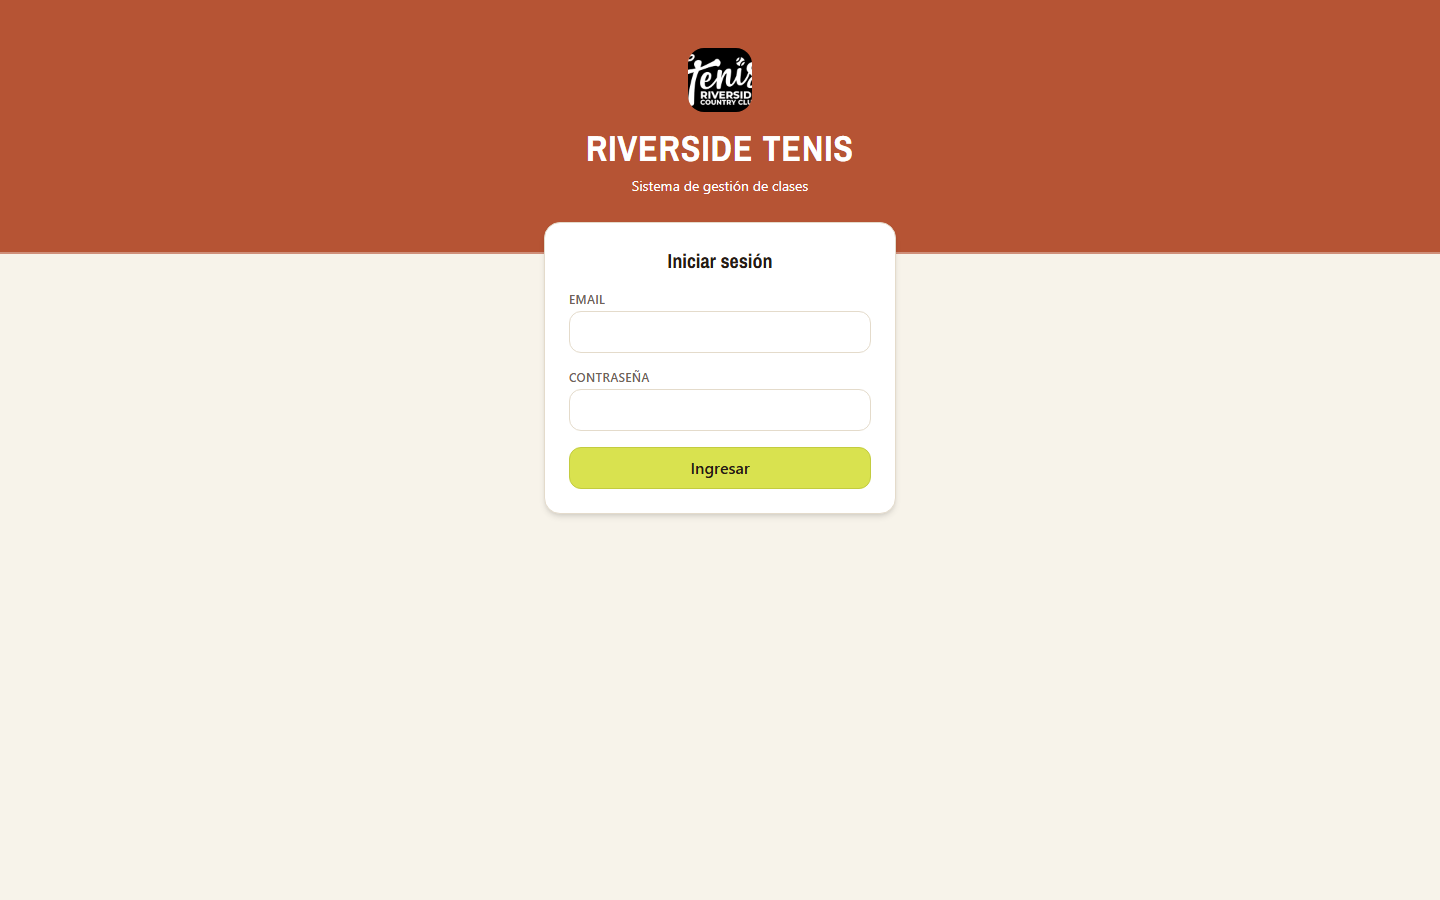
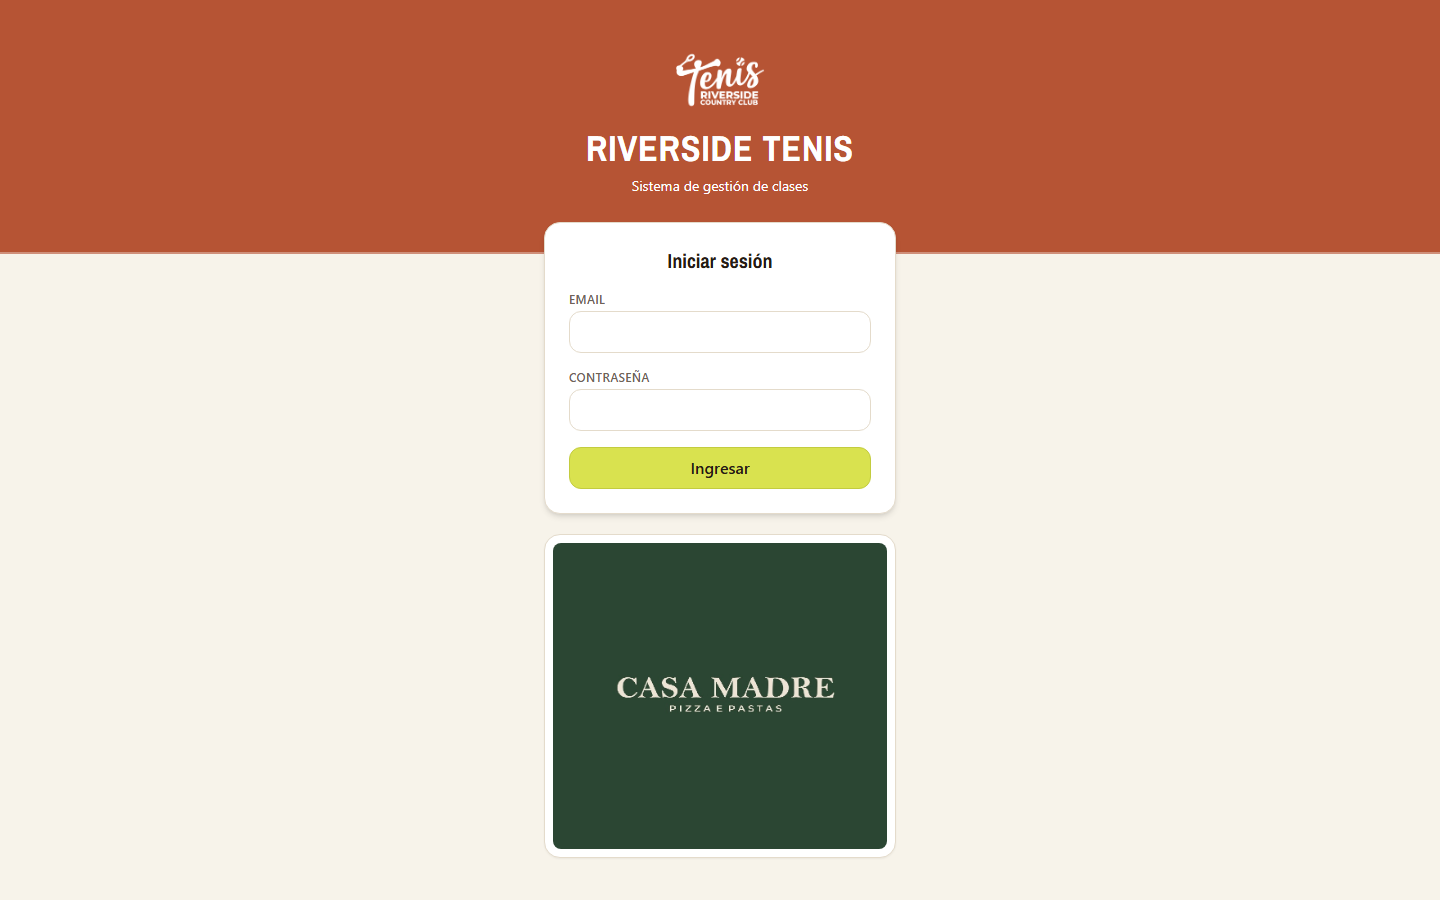
banners3

Changed region(s): [[0.375, 0.5911, 0.625, 0.9644], [0.4688, 0.0311, 0.5312, 0.1244]]

diff --git a/frontend/src/components/AdModal.tsx b/frontend/src/components/AdModal.tsx
@@ -5,38 +5,29 @@ import Image from 'next/image';
 import { ADS, ADS_SUBTITLE, ADS_TITLE } from '@/ads';
 import { Close } from '@/components/icons';
 
-const STORAGE_KEY = 'ads_seen_date';
+const PENDING_KEY = 'ads_pending';
 
-function todayKey(): string {
-  const d = new Date();
-  const mm = String(d.getMonth() + 1).padStart(2, '0');
-  const dd = String(d.getDate()).padStart(2, '0');
-  return `${d.getFullYear()}-${mm}-${dd}`;
-}
-
-// Modal de sponsors (lote 3): se abre 1 vez por día al entrar al sistema,
-// solo para el rol alumno, y solo si hay banners cargados en `ads.ts`.
+// Modal de sponsors (lote 3): se abre cada vez que un alumno inicia sesión
+// (la página de login setea el flag), solo para el rol alumno, y solo si hay
+// banners cargados en `ads.ts`. El flag se consume al abrir: no vuelve a
+// aparecer hasta el próximo login.
 export default function AdModal() {
   const [open, setOpen] = useState(false);
 
   useEffect(() => {
     if (ADS.length === 0) return;
     try {
-      if (localStorage.getItem(STORAGE_KEY) !== todayKey()) {
+      if (sessionStorage.getItem(PENDING_KEY) === '1') {
+        sessionStorage.removeItem(PENDING_KEY);
         setOpen(true);
       }
     } catch {
-      // sin localStorage disponible: no molestar
+      // sin sessionStorage disponible: no molestar
     }
   }, []);
 
   const close = () => {
     setOpen(false);
-    try {
-      localStorage.setItem(STORAGE_KEY, todayKey());
-    } catch {
-      // ignorar
-    }
   };
 
   if (!open) return null;

diff --git a/frontend/src/app/login/page.tsx b/frontend/src/app/login/page.tsx
@@ -3,6 +3,7 @@
 import { useState } from 'react';
 import Image from 'next/image';
 import { useRouter } from 'next/navigation';
+import { LOGIN_AD } from '@/ads';
 
 export default function LoginPage() {
   const router = useRouter();
@@ -42,6 +43,12 @@ export default function LoginPage() {
           router.push('/tablero');
           break;
         case 'alumno':
+          // Marca para que el modal de sponsors se abra tras el login
+          try {
+            sessionStorage.setItem('ads_pending', '1');
+          } catch {
+            // sin sessionStorage: seguir sin modal
+          }
           router.push('/mis-clases');
           break;
         default:
@@ -113,6 +120,25 @@ export default function LoginPage() {
             {loading ? 'Ingresando...' : 'Ingresar'}
           </button>
         </form>
+
+        {/* Publicidad del login: una sola, siempre visible */}
+        {LOGIN_AD && (
+          <a
+            href={LOGIN_AD.href}
+            target="_blank"
+            rel="noopener noreferrer"
+            className="card block p-2 mt-5 mb-12 hover:border-green-400 transition"
+            aria-label={LOGIN_AD.alt || 'Publicidad'}
+          >
+            <Image
+              src={LOGIN_AD.src}
+              alt={LOGIN_AD.alt || 'Sponsor'}
+              width={600}
+              height={200}
+              className="w-full h-auto object-contain rounded-lg"
+            />
+          </a>
+        )}
       </div>
     </main>
   );

diff --git a/frontend/src/ads.ts b/frontend/src/ads.ts
@@ -5,7 +5,7 @@
 // 2. Agregá una entrada acá con la ruta relativa a `public/` y el link del anunciante.
 //
 // Si la lista está vacía, el modal no se muestra.
-// El modal se abre 1 vez por día por alumno (marca en localStorage `ads_seen_date`).
+// El modal se abre cada vez que un alumno inicia sesión (flag en sessionStorage).
 
 export interface AdBanner {
   /** Ruta de la imagen dentro de `public/` (ej. '/banners/mitienda.jpg') */
@@ -27,3 +27,11 @@ export const ADS: AdBanner[] = [
   { src: '/banners/itec.jpg', href: 'https://www.instagram.com/itecriocuarto/', alt: 'Itec Río Cuarto' },
   { src: '/banners/Kevin.jpg', href: 'https://www.instagram.com/kevingstonriocuarto/', alt: 'Kevingston Río Cuarto' },
 ];
+
+// Publicidad de la pantalla de login: UNA sola, debajo del formulario,
+// visible siempre. Si está vacía (undefined), no se muestra nada.
+export const LOGIN_AD: AdBanner | undefined = {
+  src: '/banners/casamadre.jpg',
+  href: 'https://www.instagram.com/casamadre.r4/',
+  alt: 'Casa madre Río Cuarto',
+};

diff --git a/.scratch/tenis-manager/handoff.md b/.scratch/tenis-manager/handoff.md
@@ -3,6 +3,7 @@
 **Fecha**: 2026-10-06 (actualizado 2026-10-07)
 **Estado**: **lote 2 + rediseño "Polvo de Ladrillo" commiteados y pusheados** (commit `9982d0a cambios`, `main` = `origin/main`, working tree limpio). Incluye: los 10 puntos de `cambios.txt` (issue `13-cambios-lote2` → **completed**), rediseño visual guiado por `impeccable` con cierre completo (detect `[]`, finish review **ship**, `DESIGN.md` + `.impeccable/design.json`, provenance del logo embebida), skill impeccable + `.impeccable/` + `DESIGN.md`/`PRODUCT.md`/`cambios.txt` versionados. **Tabla nueva `plantilla_alumnos` YA EJECUTADA en la BD real por el usuario** (único cambio de esquema; migración `backend/sql/migrations/002_plantilla_alumnos.sql`; ningún campo/ENUM modificado). Backend `node --check` OK; frontend `npm.cmd run build` OK (16 rutas). Items 1-15 + responsive 16-18 + manuales siguen commiteados (commit previo `d93719b`).
 **Lote 3 (IMPLEMENTADO, sin commitear)**: issue **`14-lote3-compañeros-sponsors.md` → done**. F1 compañeros en mis-clases (`attachStudents`/`enrichInstancesWithStudents` en `/mine` + `/open`), F2 modal sponsors (`ads.ts` + `AdModal.tsx`, 1×/día, solo alumno — `ads.ts` queda `ADS=[]` hasta que la clienta cargue banners en `public/banners/`), F3 `components/Modal.tsx` centrado (tablero), correcciones auditoría F4a–F4f (verde extras en todas las vistas, panel Inscriptos en Clases Abiertas, mail en "Forzar", candidates filtra `aceptada`, baja propia en Disponibles, precio extra = 50% vía `lib/extraPrice.ts`). Bugfix SQL: alias de 3 SELECTs alineados a la whitelist. Finish review: **fix (5 hallazgos) → 2 batches → ship** (chip verde tablero, docs red→green, un solo feltro en forms, density void, grises → paleta). Detect `[]`, `node --check` OK, `npm.cmd run build` OK (16 rutas). Capturas nuevas en `.impeccable/review/` (11 frescas; `login-*` y `plantillas-desktop` stale). Logo nuevo: `frontend/public/logo.png` (PNG procesado con alfa, reemplaza a `logo.jpeg`).
+**Lote 3.5 (ads, 2026-10-08)**: (1) modal de sponsors ahora se abre **cada vez que un alumno inicia sesión** (flag `sessionStorage.ads_pending` seteado en `login/page.tsx`, consumido por `AdModal`; ya no 1×/día); (2) **`LOGIN_AD`** en `ads.ts`: una publicidad permanente debajo del formulario de login (hoy casamadre); (3) `tsconfig.json` `target: es5 → ES2017` (resuelve el deprecation error de TS sin `ignoreDeprecations`); (4) usuario cargó 4 banners reales en `ADS` (casamadre, victoria, itec, kevin). Finish review: **ship** (3/3, sin regresiones), detect `[]`, build OK. **Próxima acción**: el usuario commitea (add/commit/push).
 **Próxima acción**: el usuario revisa y **hace git add/commit/push del lote 3** (no commitea el agente por regla de repo); luego verificar el deploy — **hard refresh (Ctrl+F5) o incógnito** (caché de HTML) en el droplet y Render; probar flujos contra la BD real (baja24h, extras directo, roster de plantillas). `backend/sql/seed-demo.sql` sigue pendiente de ejecutar si se quieren datos demo. SMTP opcional: sin env vars `SMTP_HOST/SMTP_PORT/SMTP_USER/SMTP_PASS/MAIL_FROM` los mails son no-op. Menores abiertos: (a) confirmaciones nativas `confirm()`/`alert()`, (b) mitad derecha del campo-cancha vacía en desktop con pocas clases, (c) utilidades `gray/emerald/amber` fuera de paleta en páginas no capturadas (dashboard/admin/pagos/facturación), (d) SMTP real pendiente de credenciales, (e) centrado del calendario en PC (fase 5 postergada).
 
 ---
